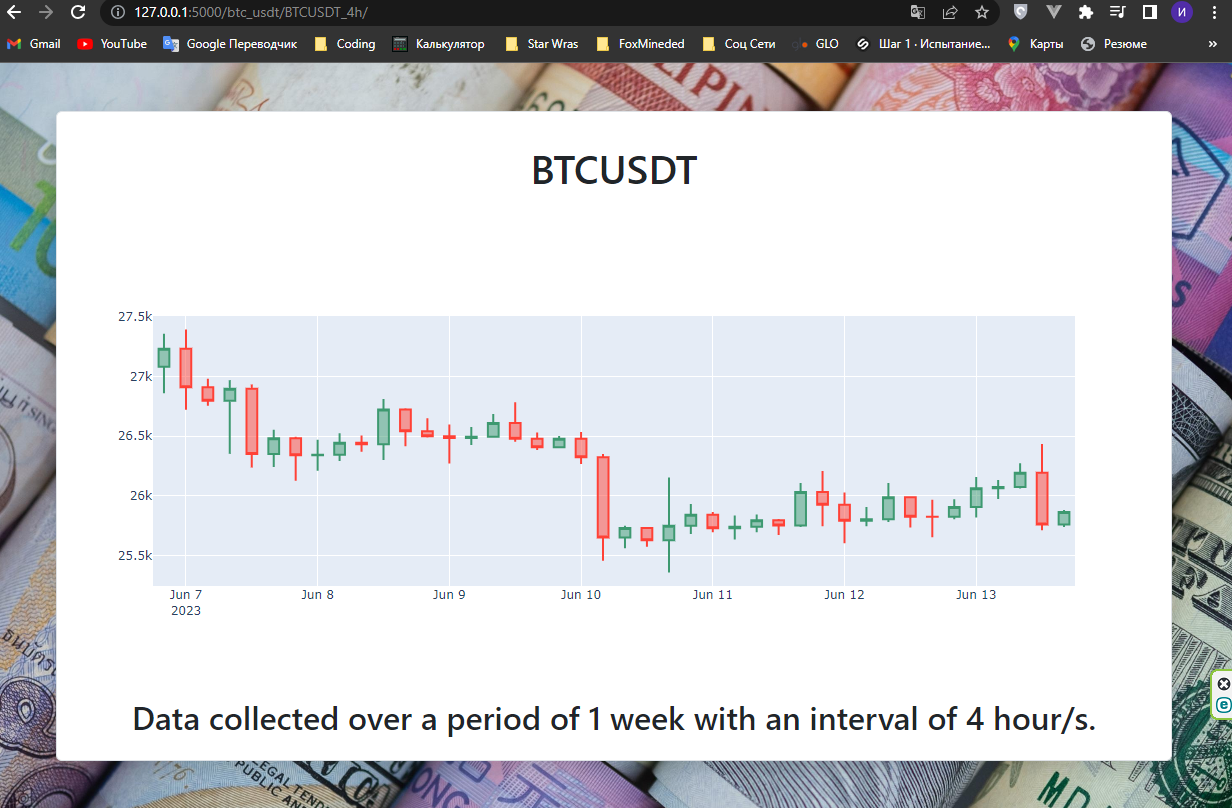
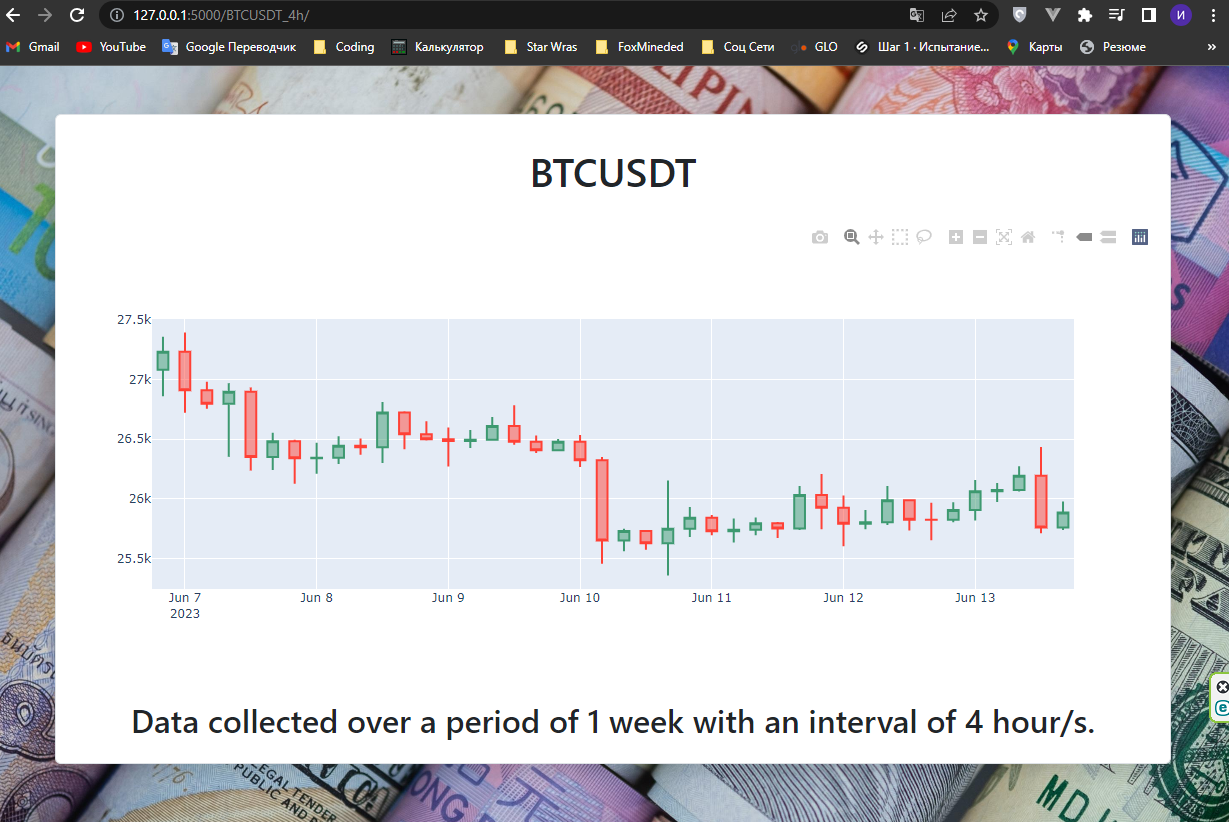
readme fixes

diff --git a/README.md b/README.md
@@ -107,7 +107,7 @@ http://127.0.0.1:5000/
 
 ![Star_page](readme_images/star_page.png)
 
-http://127.0.0.1:5000/btc_usdt/BTCUSDT_4h/
+http://127.0.0.1:5000/BTCUSDT_4h/
 
 ![Candlestic chart](readme_images/candlestic.png)
 
